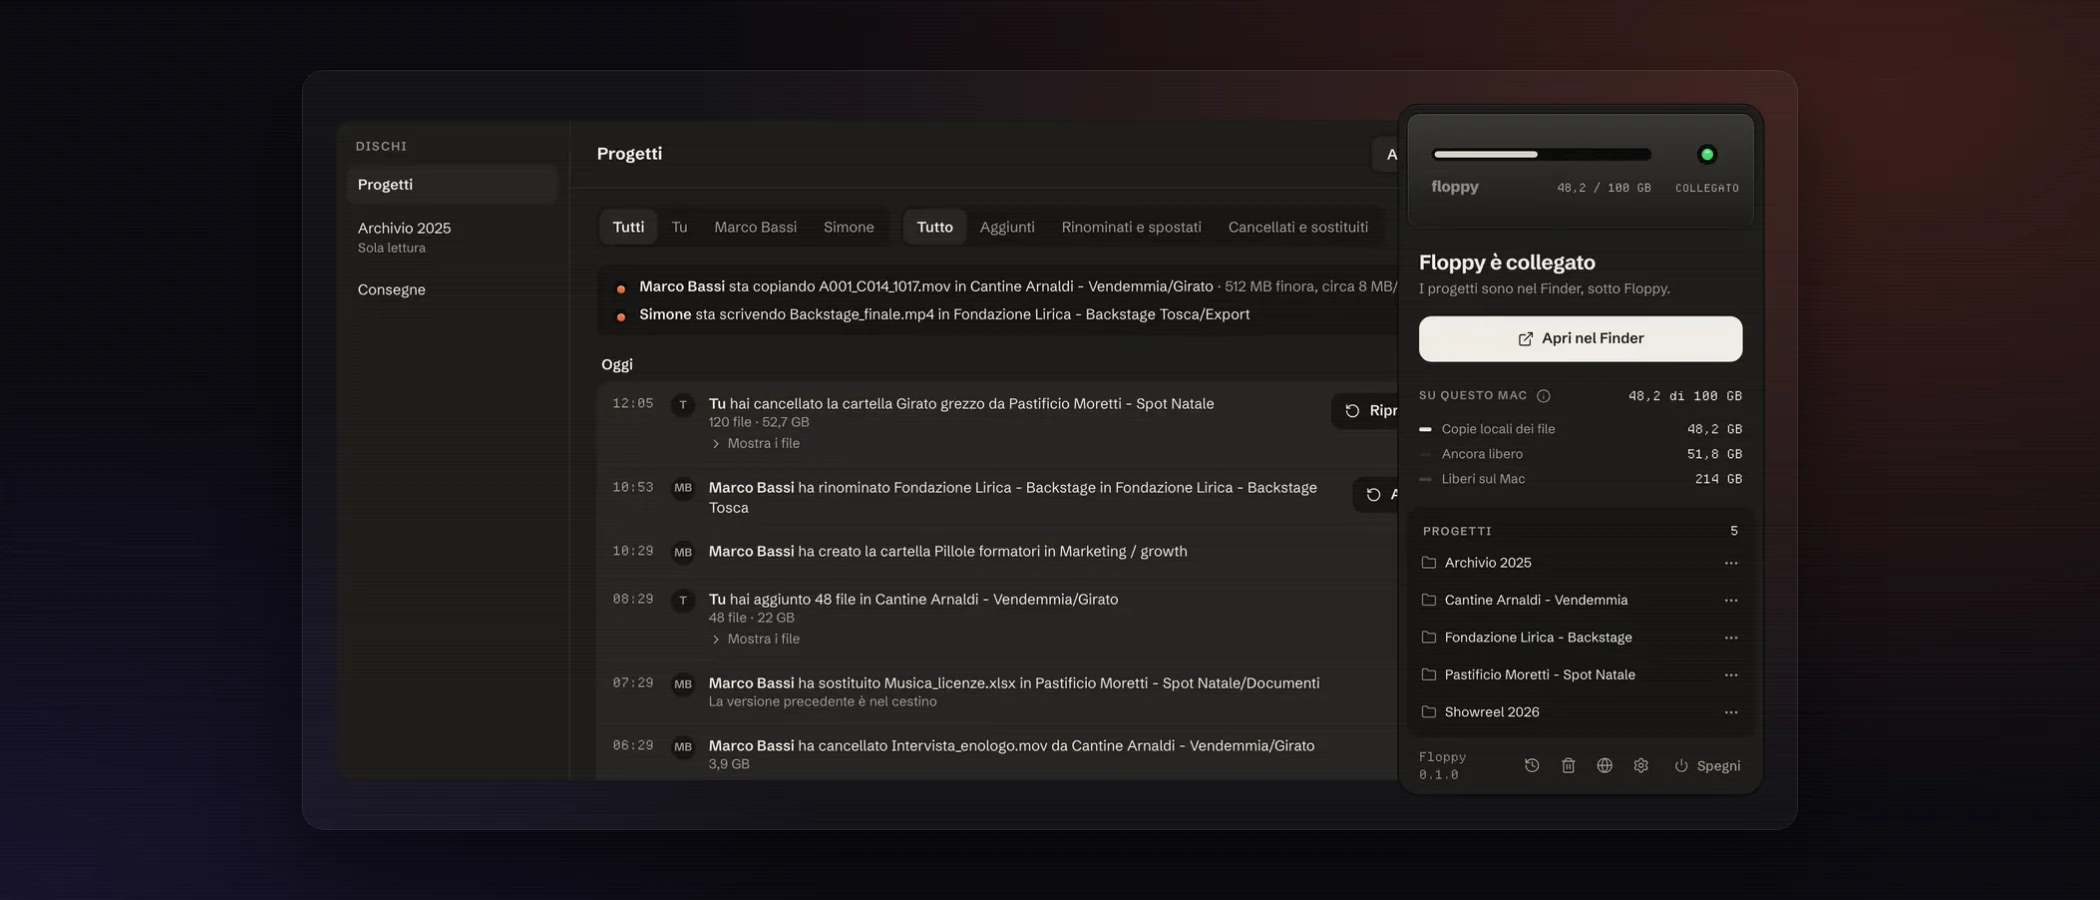
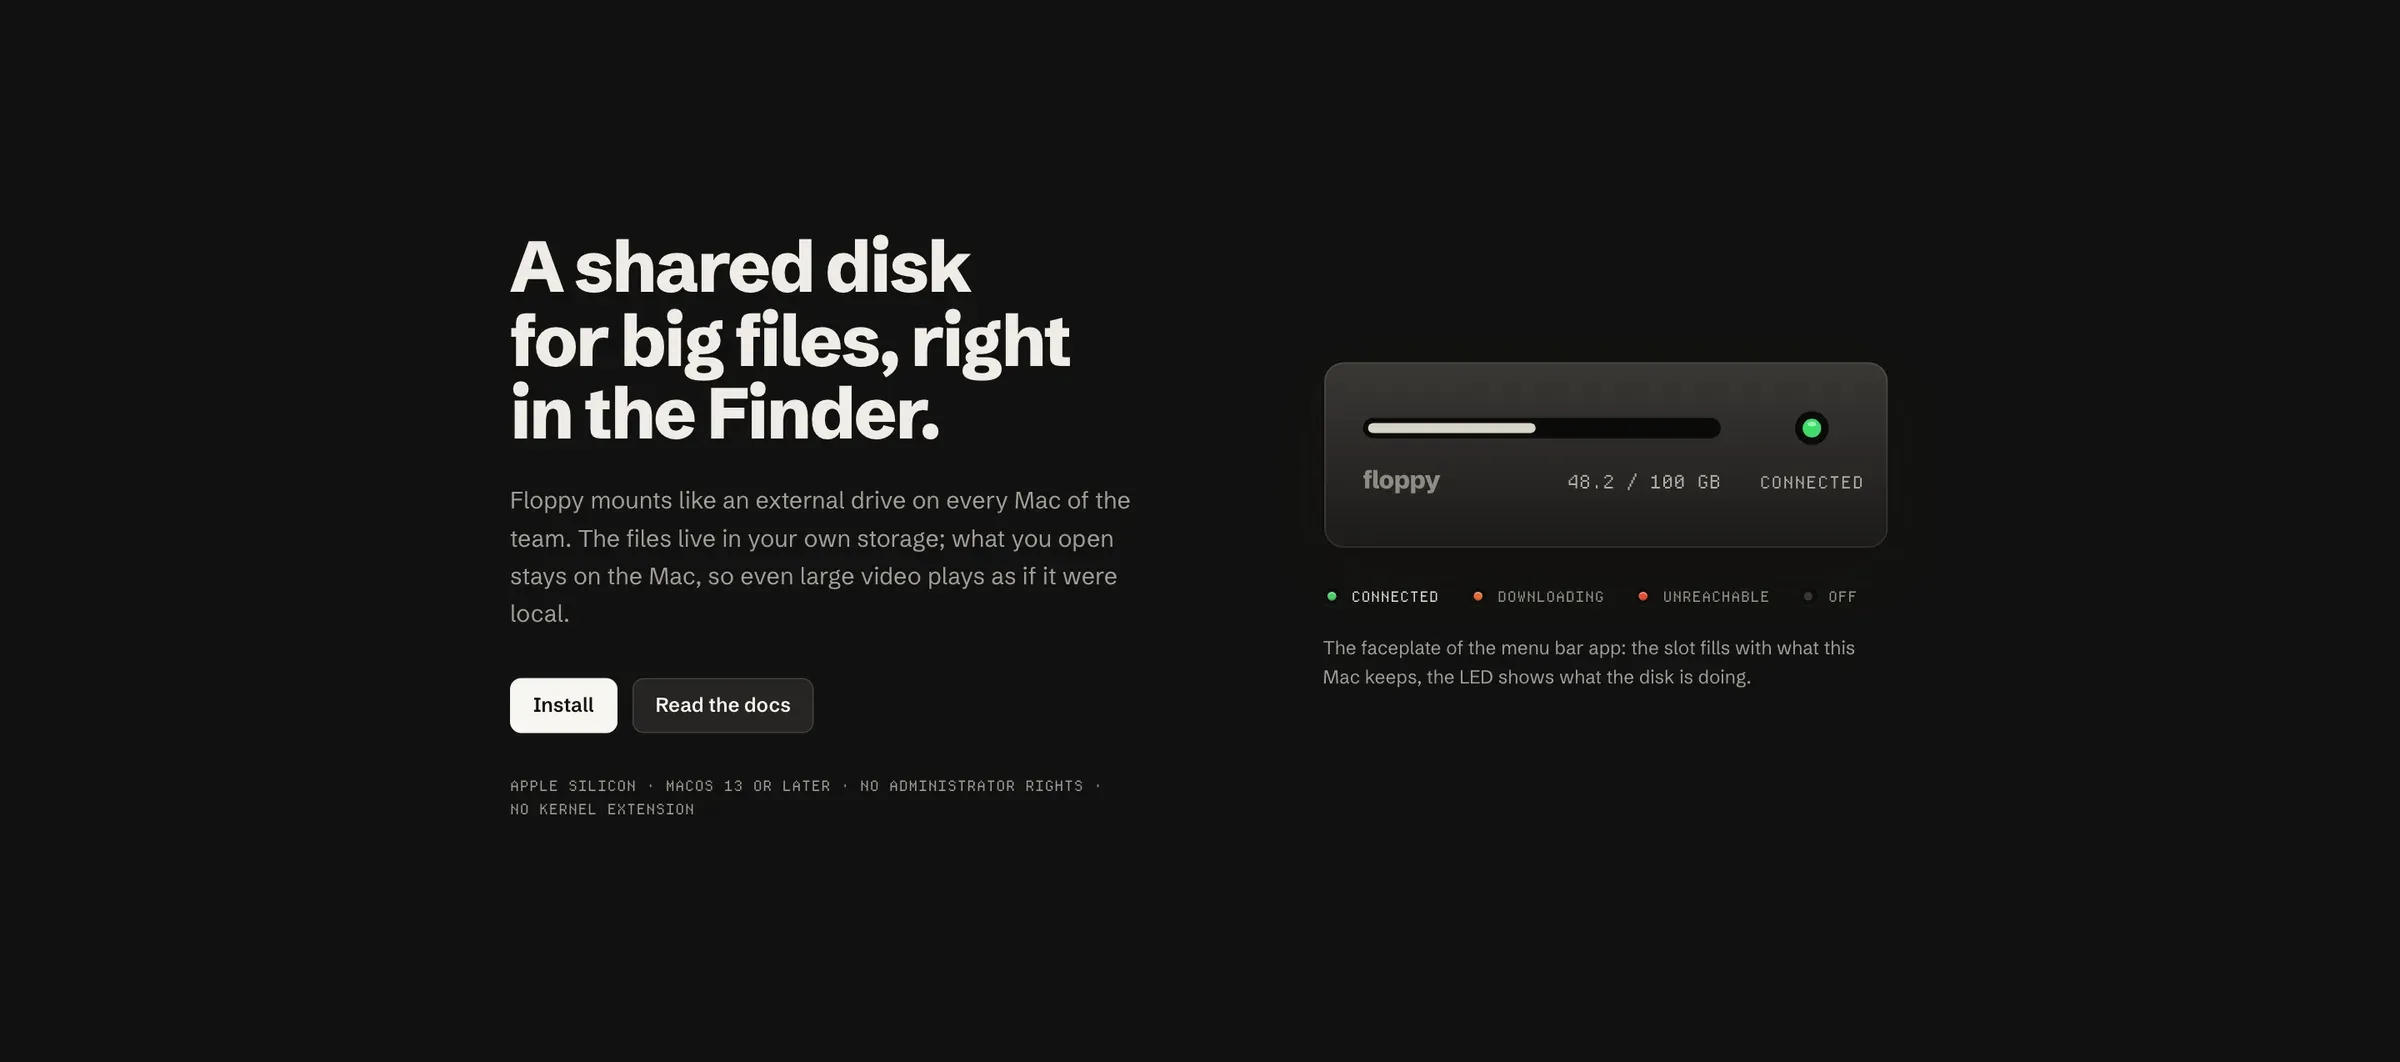
feat(projects): cover Floppy with its landing hero, Watch OS with a list
Floppy's composite showed invented folders that read like clients; the
hero of its own site says what it is, in both themes. Watch OS goes back
to a list in the watch's accent until there are screens from the device.

diff --git a/docs/features/progetti.md b/docs/features/progetti.md
@@ -70,8 +70,9 @@ which stopped the day Nexus restarted.
 - IDKCraft: a voxel game in Kotlin, with IDKCraft Studio generating pixel-art textures
   via image models, with reference images to keep the style.
 - Local LLM Experiments, a single item on local LLMs: Local LLM Eval and LLM Dash.
-- Milan, a single item: based-routing (multi-origin trip planner on the Lombardy network)
-  and Milanoz, with the context of the move to Milan in 2026.
+- Milan: Varco carries based-routing (multi-origin trip planner on the Lombardy network) and
+  Milanoz in `previously`, with the move to Milan in 2026 as its opening; the Milan entry is
+  hidden (2026-10-27).
 - Personal servers, a single item: monitor (`status.esse.dev`) and server-ops.
 - Experiments on Solana, a single item (folder `solplace`): SolPlace by name, the rest
   without.
@@ -133,7 +134,8 @@ Both are files in the project's folder, declared in `meta.json` (`logo`, `cover`
   `render-cover.ts` have a light variant next to them (`logo-light.svg`, `cover-light.webp`),
   written by the same script and declared as `logoLight` and `cover.srcLight`. An app icon
   that is its own tile, a screenshot and the generated cover have one only, unless the project
-  renders the same view in both themes (Varco's map, shot from its `design/og.html`).
+  renders the same view in both themes (Varco's map from its `design/og.html`, Floppy's landing).
 - **Text in a cover**: Varco's cover is its share image, title in Italian included, by
-  Simone's choice (2026-10-27); pgbee's is a frame of its video, with the English caption.
+  Simone's choice (2026-10-27); pgbee's is a frame of its video, with the English caption;
+  Floppy's is the hero of its own landing page (`floppy/site/`), in both themes.
 - **Weight**: no source file over 300 KB. The pixel-art archive cost 80 MB of history.
